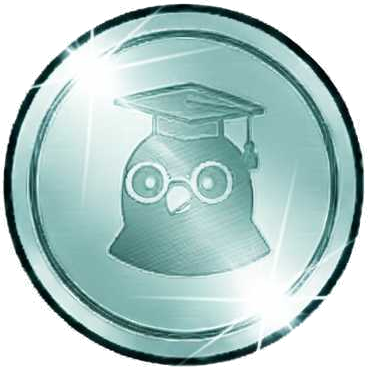
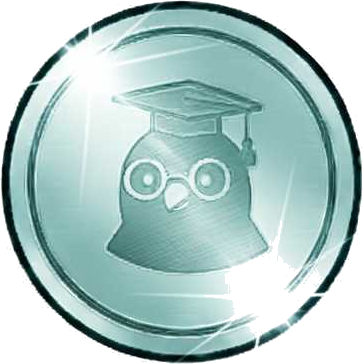
Refine medal edges and refresh cache

diff --git a/service-worker.js b/service-worker.js
@@ -1,4 +1,4 @@
-const CACHE_NAME = "tone-raindrops-v3";
+const CACHE_NAME = "tone-raindrops-v4";
 const ASSETS = [
   "./",
   "./index.html",
